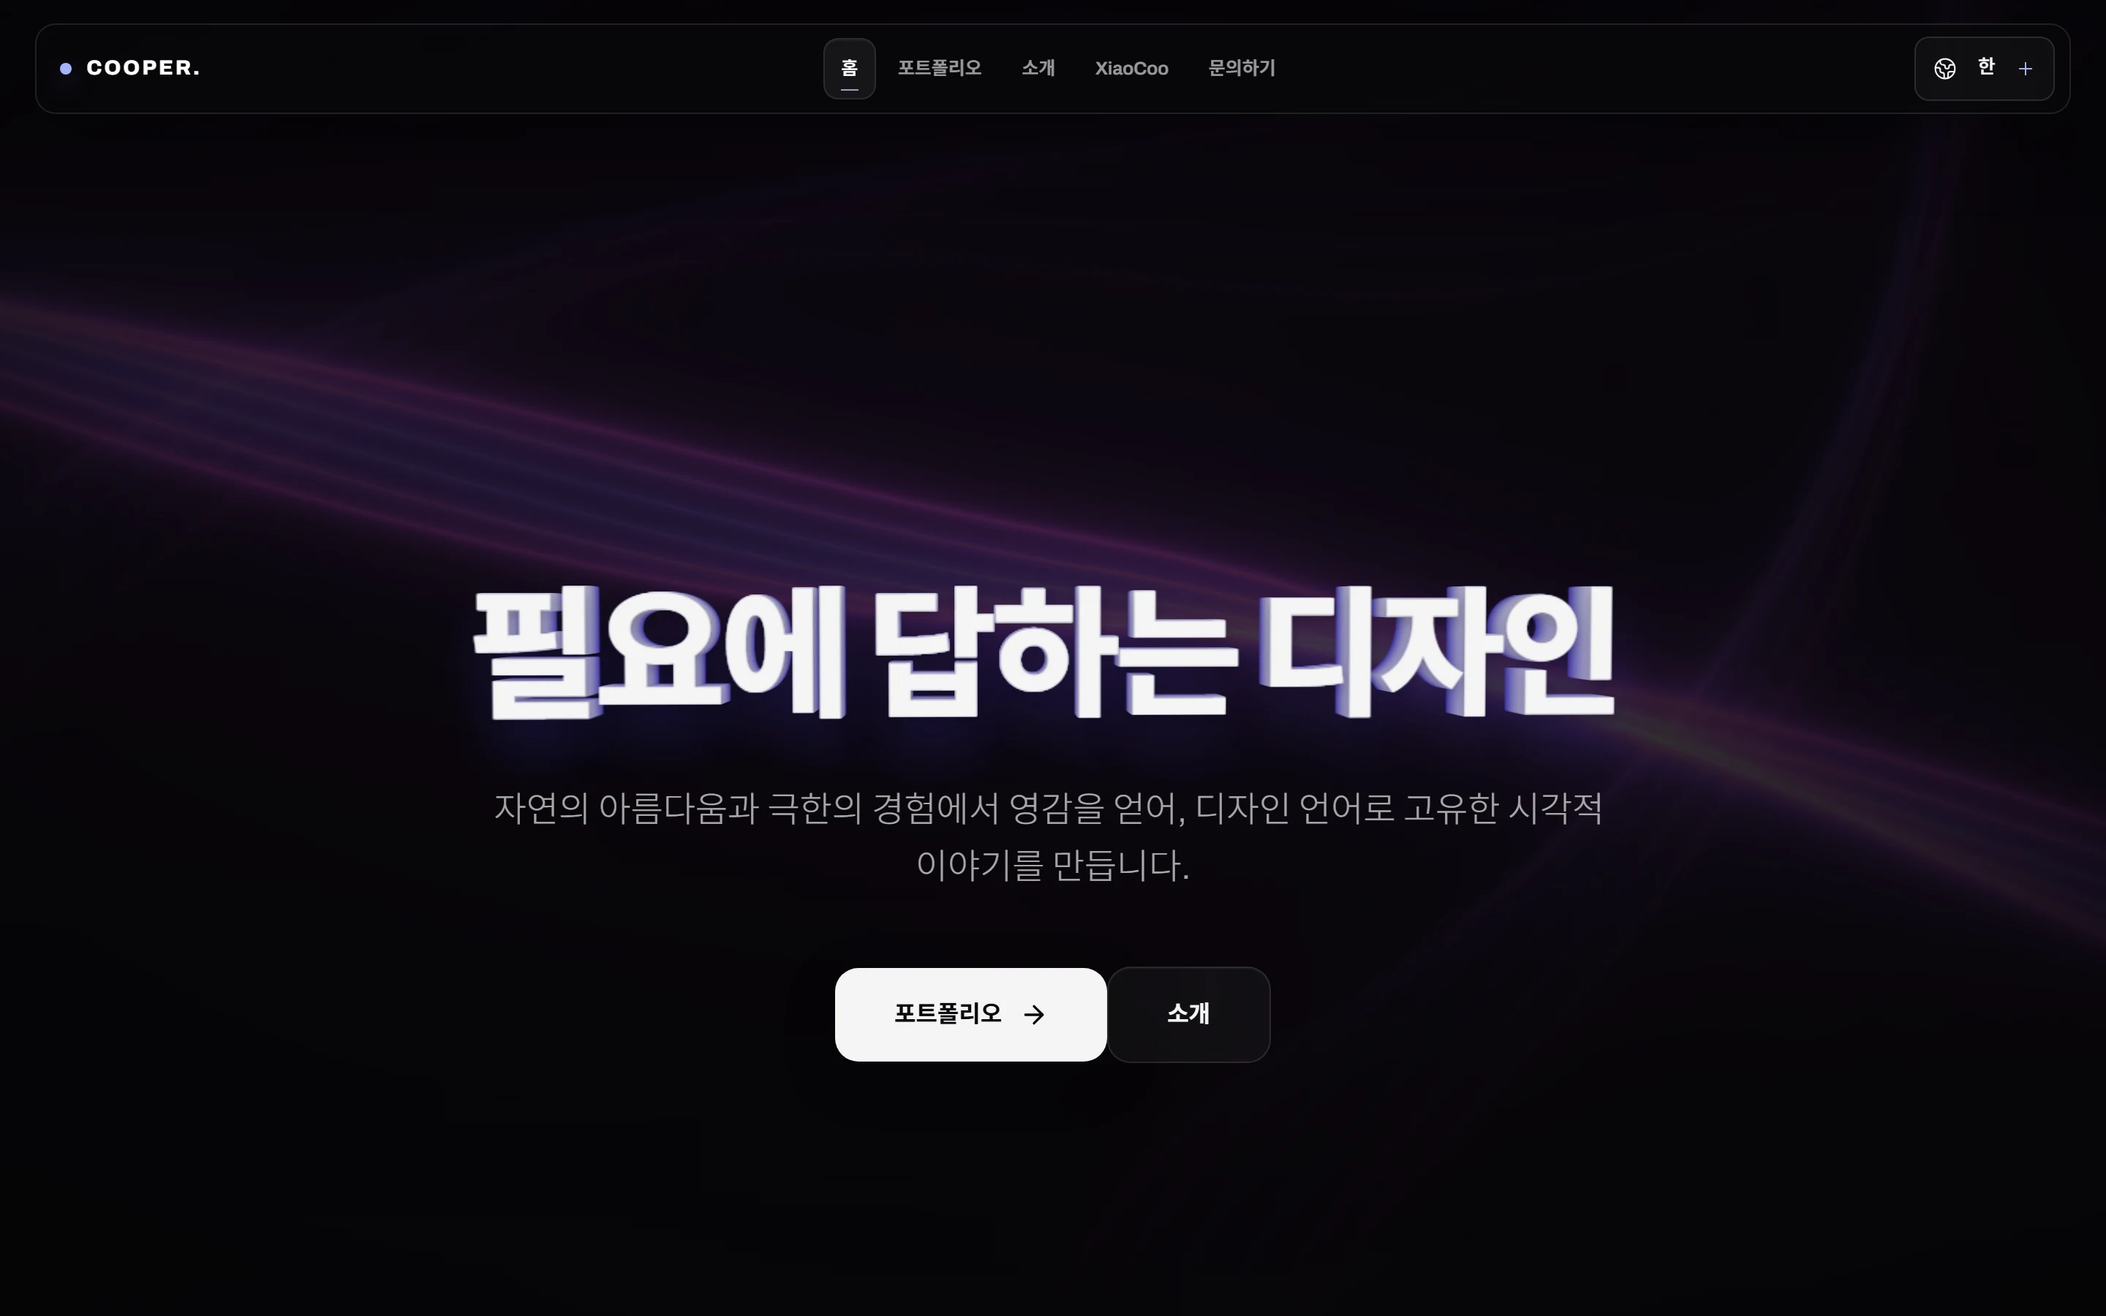
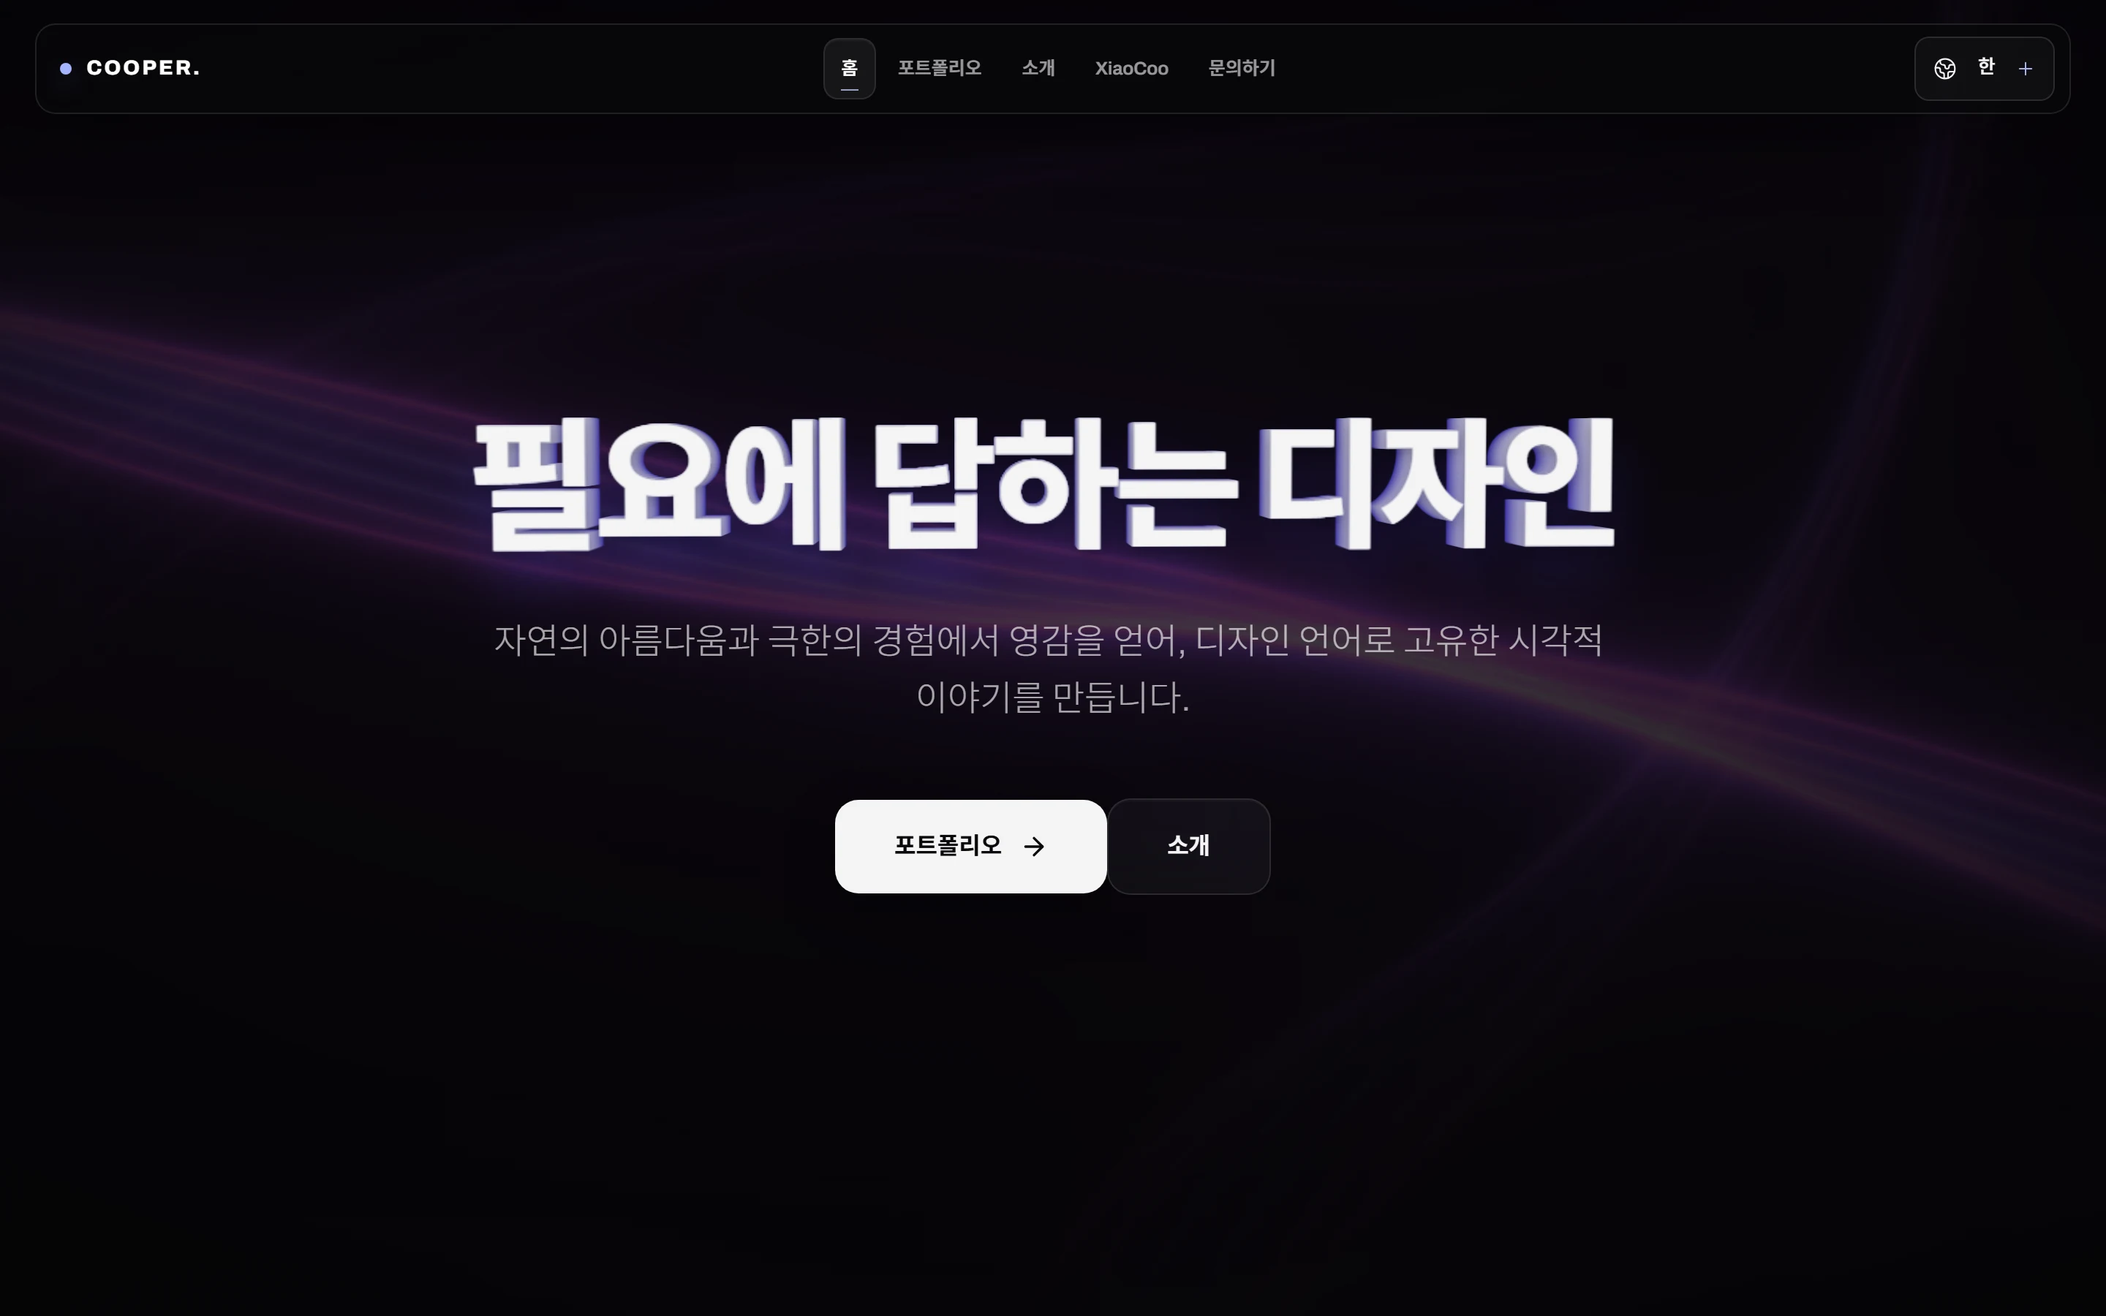
Center home hero group and reorder language menu

diff --git a/src/app/page.tsx b/src/app/page.tsx
@@ -1,6 +1,6 @@
 "use client";
 
-import { useEffect, useRef } from "react";
+import { useRef } from "react";
 import { motion } from "framer-motion";
 import { useGSAP } from "@gsap/react";
 import gsap from "gsap";
@@ -38,27 +38,9 @@ export default function Home() {
   const reduced = usePrefersReducedMotion();
   const useGsap = shouldUseGsap(reduced);
   const introRevealReady = useIntroRevealReady();
-  const pageContainerRef = useRef<HTMLDivElement>(null);
-  const heroTitleRef = useRef<HTMLDivElement>(null);
   const portfolioBtnRef = useRef<HTMLAnchorElement>(null);
   const aboutBtnRef = useRef<HTMLAnchorElement>(null);
   const { t, mounted } = useTranslation();
-
-  useEffect(() => {
-    const title = heroTitleRef.current;
-    const container = pageContainerRef.current;
-    if (!title || !container) return;
-
-    // Font loading, language changes and wrapping all affect the title's height.
-    // Anchor the title itself; supporting copy can extend below the viewport.
-    const measureTitle = () => {
-      container.style.setProperty("--hero-title-block-height", `${title.getBoundingClientRect().height}px`);
-    };
-    measureTitle();
-    const observer = new ResizeObserver(measureTitle);
-    observer.observe(title);
-    return () => observer.disconnect();
-  }, []);
 
   useGSAP(() => {
     if (!useGsap || tier === "minimal") return;
@@ -154,7 +136,6 @@ export default function Home() {
 
   return (
     <div
-      ref={pageContainerRef}
       className={cn("flex flex-col flex-1 pb-4 sm:pb-6 w-full min-w-0 overflow-x-clip", !mounted && "opacity-0")}
     >
       <motion.div
@@ -166,7 +147,7 @@ export default function Home() {
         {/* Hero Section */}
         <div className="hero-section-responsive relative z-[90] flex flex-col">
         <section className="flex flex-col relative z-[90] overflow-x-clip">
-          <div ref={heroTitleRef} className="hero-depth-title">
+          <div className="hero-depth-title">
             <h1 className="hero-title-responsive text-4xl sm:text-6xl lg:text-8xl font-bold tracking-tight max-w-5xl leading-[1.1]">
               <DepthText
                 text={t.hero.title}

diff --git a/src/app/globals.css b/src/app/globals.css
@@ -1719,12 +1719,13 @@ select option {
 }
 
 .hero-section-responsive > section {
-  display: grid;
-  grid-template-rows: max(7rem, calc(50svh - var(--hero-title-block-height, 8.5rem) / 2)) auto auto;
+  display: flex;
+  flex-direction: column;
   min-height: 100svh;
-  align-content: start;
+  justify-content: center;
   width: 100%;
-  align-items: start;
+  align-items: center;
+  padding-block: 7rem;
   text-align: center;
   overflow: visible;
 }
@@ -1734,18 +1735,12 @@ select option {
 }
 
 .hero-support {
-  grid-row: 3;
   display: flex;
   flex-direction: column;
   align-items: center;
   width: 100%;
-  padding-block: clamp(0.5rem, 2svh, 1.25rem) clamp(2rem, 4svh, 3rem);
-}
-
-/* Centre the heading itself in every language, independently of supporting copy. */
-.hero-depth-title {
-  grid-row: 2;
-  margin-block: 0;
+  /* Balance the title's top inset so the entire visible hero group is centered. */
+  padding-block: clamp(0.5rem, 2svh, 1.25rem) 1.25rem;
 }
 
 .website-design-cover [data-gsh-image] {
@@ -1771,6 +1766,7 @@ select option {
 
 .hero-depth-title {
   width: 100%;
+  margin-block: 0;
   padding: 1.25rem clamp(0.75rem, 3vw, 2rem);
   overflow: visible;
 }

diff --git a/src/locales/config.ts b/src/locales/config.ts
@@ -1,8 +1,8 @@
 export const languageOptions = [
   { value: "zh", label: "中文", shortLabel: "中", htmlLang: "zh-CN", locale: "zh-CN" },
   { value: "en", label: "English", shortLabel: "EN", htmlLang: "en", locale: "en-US" },
-  { value: "ja", label: "日本語", shortLabel: "日", htmlLang: "ja", locale: "ja-JP" },
   { value: "ko", label: "한국어", shortLabel: "한", htmlLang: "ko", locale: "ko-KR" },
+  { value: "ja", label: "日本語", shortLabel: "日", htmlLang: "ja", locale: "ja-JP" },
 ] as const;
 
 export type Language = (typeof languageOptions)[number]["value"];

diff --git a/DESIGN.md b/DESIGN.md
@@ -123,7 +123,7 @@ Form direction 4, seed `94f35f2e`, is the shipped authority. The finish-review d
 
 - Graphite-black canvas with cold white, zinc, and rare indigo signals.
 - Centered full-width screening-room composition, never a split portfolio sidebar.
-- Across all four languages, the home title itself anchors to the viewport center; its description and two actions occupy the following track and can extend the hero naturally when needed.
+- Across all four languages, the visible home title, description, and two actions form one centered group; short screens or long copy extend the hero naturally without clipping or overlapping the fixed header.
 - A session-gated screening-room opening resolves the COOPER. wordmark, reveals the real FloatingLines field from left to right, clears the wordmark, and only then brings in navigation and homepage detail.
 - Pointer-responsive DepthText gives the home statement restrained dimensional weight; the footer closes with one compact MetallicPaint wordmark.
 - Low-opacity React Bits FloatingLines atmosphere with a readability vignette and bounded GPU cost.
@@ -186,9 +186,9 @@ The UI palette is near-monochrome and nocturnal. Indigo is a navigational and in
 
 ## Layout
 
-The page shell is centered at a maximum width of `88rem` and isolated over a fixed backdrop. Main content begins below the floating chrome with `8.5rem` top padding on wider screens. The home hero offsets that shell padding and keeps a minimum height of `100svh`. Across Chinese, English, Japanese, and Korean, the title itself is the horizontal and vertical centering anchor; the supporting description and two actions occupy the following track, rather than shifting the title as part of one centered group.
+The page shell is centered at a maximum width of `88rem` and isolated over a fixed backdrop. Main content begins below the floating chrome with `8.5rem` top padding on wider screens. The home hero offsets that shell padding and keeps a minimum height of `100svh`. Across Chinese, English, Japanese, and Korean, the visible title, supporting description, and two actions form one horizontally and vertically centered group.
 
-The first viewport has a fixed hierarchy: compact floating top bar, the oversized title anchored at the viewport center, then one supporting statement and two actions below. A `ResizeObserver` records the title wrapper's actual height in `--hero-title-block-height`; the grid uses `max(7rem, calc(50svh - var(--hero-title-block-height, 8.5rem) / 2)) auto auto` for its top spacer, title, and support tracks. This keeps long translated support copy from pushing the title down. The support track remains in normal flow and may extend the hero beyond the viewport; on very short screens the `7rem` top minimum prevents header overlap rather than forcing clipped centering. Do not insert promotional modules, scroll prompts, carousels, counters, or extra proof above the professional-services section.
+The first viewport has a fixed hierarchy: compact floating top bar, then one centered group containing the oversized title, supporting statement, and two actions in reading order. The hero section is a flex column with `justify-content: center`, a `100svh` minimum height, and symmetric `7rem` top/bottom clearance. The title retains its `1.25rem` vertical inset; the support area uses `clamp(0.5rem, 2svh, 1.25rem)` above and `1.25rem` below, balancing the visible group's outer insets. Normal flow accommodates font loading, translated wrapping, and viewport changes without title-specific measurement. When the combined content exceeds the available height, the section grows naturally and remains scrollable, preserving navigation clearance rather than clipping content. Existing title, text-reveal, and action motion remain unchanged. Do not insert promotional modules, scroll prompts, carousels, counters, or extra proof above the professional-services section.
 
 Professional services use three equal desktop columns in one row. Every service receives the same dimensions, padding, icon treatment, and typographic weight; none is promoted above the others. At `900px` and below, the grid becomes a natural-height single column. Stats use three equal columns. Workflow rows divide number, title, and description into three editorial columns. P2 analysis uses a `0.58fr / 1.42fr` chapter grid with text constrained to readable measure. Hairlines, not card gutters, carry most of the information architecture.
 
@@ -198,7 +198,7 @@ Professional services use three equal desktop columns in one row. Every service 
 - At `1024px`, the full desktop navigation yields to the menu control and modal navigation panel.
 - At `900px` and below, professional services and analysis become natural-height single columns; the footer keeps its centered single-column close and uses the same fluid `2.5rem–4.5rem` separation from preceding content as every other route.
 - At `640px` and below, header insets contract to `0.75rem`, main padding becomes `7.5rem 0.85rem 1rem`, the footer contact row becomes horizontally scrollable without overflowing the page, workflow becomes a two-column number/content structure, and analysis point grids become single-column.
-- The hero has a `100svh` minimum, with the title targeting the viewport center at ordinary desktop and mobile widths, including `1440px`, `390px`, and `320px`. Mobile actions remain full-width and stacked; long translations or very short screens extend the support track naturally without clipping, while the top spacer retains its `7rem` minimum.
+- The hero has a `100svh` minimum and centers the visible title, description, and actions as one group whenever the content fits, including at `1440px`, `390px`, and `320px` widths. Mobile actions remain full-width and stacked; long translations or very short screens extend the whole section naturally without clipping, preserving symmetric `7rem` top/bottom clearance and keeping the content below the fixed navigation.
 - At `640px` and below, the FloatingLines layer drops from `0.58` to `0.44` opacity, reduces saturation/brightness, and caps renderer device pixel ratio at `1.25` instead of the wider-screen cap of `2`.
 
 ### Accessibility rules
@@ -264,7 +264,7 @@ Hairlines are essential geometry. One-pixel zinc rules organize capabilities, st
 - **Material:** 28 restrained cold-white-to-deep-indigo layers, shallow `1.55px` depth, six-degree maximum tilt, and a slow `0.12` orbit within the existing `6rem` display ceiling.
 - **Behavior:** pointer tracking is available only on fine-pointer full-motion devices. Intersection and page-visibility state pause its animation loop; reduced and minimal tiers hold an intentional static perspective.
 - **Accessibility:** only the front face is exposed to assistive technology; extrusion copies are decorative and hidden.
-- **Placement:** the title wrapper is measured with `ResizeObserver` and occupies the second grid track; its actual height sets the top spacer, so centering applies to the title itself in all four languages. Description and actions remain in the third track and do not determine the title's center.
+- **Placement:** the title leads one centered flex-column group with the description and two actions in all four languages. Its `1.25rem` top inset is balanced by the support area's `1.25rem` bottom inset; the section's symmetric `7rem` clearance protects the fixed navigation, and short screens or long copy extend the section naturally without clipping or changing the title's motion.
 
 ### MetallicPaint footer signature
 
@@ -286,7 +286,7 @@ Hairlines are essential geometry. One-pixel zinc rules organize capabilities, st
 ### Four-language selector
 
 - **Placement:** replaces the former English toggle in the existing header action slot. One globe/current-language/plus trigger opens a compact right-aligned panel below the header; no second language control or full-screen language dialog is introduced.
-- **Options:** 中文, English, 日本語, 한국어. Native names remain readable in every locale, with an explicit checkmark and `menuitemradio` state identifying the selection. Switching preserves the current URL and existing content/media.
+- **Options:** fixed order 中文, English, 한국어, 日本語. Native names remain readable in every locale, with an explicit checkmark and `menuitemradio` state identifying the selection. Switching preserves the current URL and existing content/media.
 - **Motion:** adapted from the user's React Bits StaggeredMenu. Two indigo/graphite underlays slide in before the dark panel, then labels enter in a short stagger. The plus rotates into a close mark. The same timeline reverses for dismissal and remains interruptible; explicit reduced motion resolves it immediately.
 - **Input:** 44px trigger, full-row option targets, visible focus, Arrow Up/Down, Home/End, Escape, outside-click and focus-leave dismissal. Escape or choosing an option returns focus to the trigger; the closed panel is inert. Language and mobile navigation panels do not stay open together.
 - **Initial language:** a valid saved manual choice wins. Otherwise, inspect browser language preferences in their listed order and use the first supported Chinese, English, Japanese, or Korean language; every Chinese region or script variant resolves to Simplified Chinese. If no supported preference is found, use English. Automatic selection does not write to `localStorage`.
@@ -402,7 +402,7 @@ This design system governs presentation only. The names **COOPER.**, **梁世城
 
 ### Maintenance checklist
 
-- [ ] In all four languages, the measured home title itself targets the viewport center; the description and two actions occupy the following track. The hero has a `100svh` minimum and grows naturally for long copy or very short screens, with a `7rem` top-spacer minimum to avoid header overlap.
+- [ ] In all four languages, the visible home title, description, and two actions center as one group. The hero has a `100svh` minimum, symmetric `7rem` top/bottom clearance, and balanced `1.25rem` outer content insets; it grows naturally for long copy or very short screens without clipping or header overlap, with all existing motion preserved.
 - [ ] Saved manual language choices take priority over supported browser preferences; all Chinese variants use Simplified Chinese, unsupported preferences fall back to English, and automatic detection never writes `localStorage`.
 - [ ] Header and footer remain visually hidden and inert until the locale is ready, avoiding a wrong-language flash.
 - [ ] The personal-website case selects eight real screenshots for the active language, resets its lightbox on language change, and uses the language-menu capture instead of the removed Task Brief image.

diff --git a/PRODUCT.md b/PRODUCT.md
@@ -22,10 +22,10 @@ The site joins finished visual work, process analysis, personal outdoor and arti
 ## Operating Context
 
 - Visitors browse a public responsive website on desktop and mobile.
-- Content is available in Chinese, English, Japanese, and Korean. The header's StaggeredMenu language selector preserves the current route and remembers the selected language; original artwork and user-written chat history retain their original text.
+- Content is available in Chinese, English, Japanese, and Korean. The header's StaggeredMenu language selector presents options in the fixed order 中文, English, 한국어, 日本語, preserves the current route, and remembers the selected language; original artwork and user-written chat history retain their original text.
 - A saved manual language choice takes priority. On a first visit, browser language preferences are checked in order for Chinese, English, Japanese, or Korean; every Chinese region and script variant uses Simplified Chinese, and an unsupported preference list falls back to English. Automatic detection does not write to localStorage; only a manual selection is saved.
 - The header and footer wait for the initial locale to be ready before becoming visible and interactive, preventing a flash of the wrong language.
-- In all four languages, the home title itself is the centering anchor; its description and two actions occupy the following track. A ResizeObserver measures the title block so the top track can use max(7rem, calc(50svh - titleHeight / 2)). The title targets the viewport center on ordinary desktop and mobile screens; long supporting copy and very short screens can extend the hero naturally, with at least 7rem above the title to avoid header overlap.
+- In all four languages, the visible home title, supporting description, and two actions form one horizontally and vertically centered group. The first section uses a 100svh minimum and a flex column with 7rem of symmetric top/bottom clearance; the title's 1.25rem top inset is balanced by the support area's 1.25rem bottom inset. When long translations or a short viewport exceed the available height, the hero grows naturally and scrolls without clipping or overlapping the fixed navigation. Existing motion remains unchanged.
 - Portfolio routes include a project index, detailed graphic/photography/video cases, and nested P2 interface-design subprojects.
 - The personal-website case uses eight real screenshots per language under public/photos/portfolio/p2/localized/{zh,en,ja,ko}/: four core-page images and four component images. The current language selects the screenshot set and changing it resets the lightbox. The language-menu image replaces the removed Task Brief image; scripts/capture-p2-design.mjs remains the capture workflow.
 - The Contact route submits structured information through its existing API flow. The former Task Brief route is intentionally absent from the public build and navigation.
